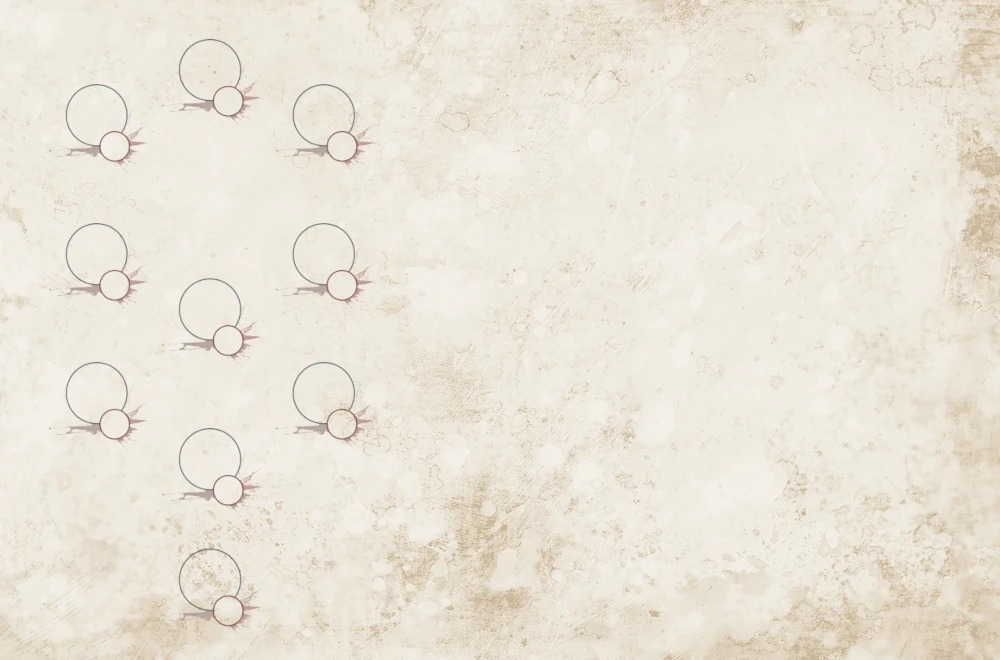
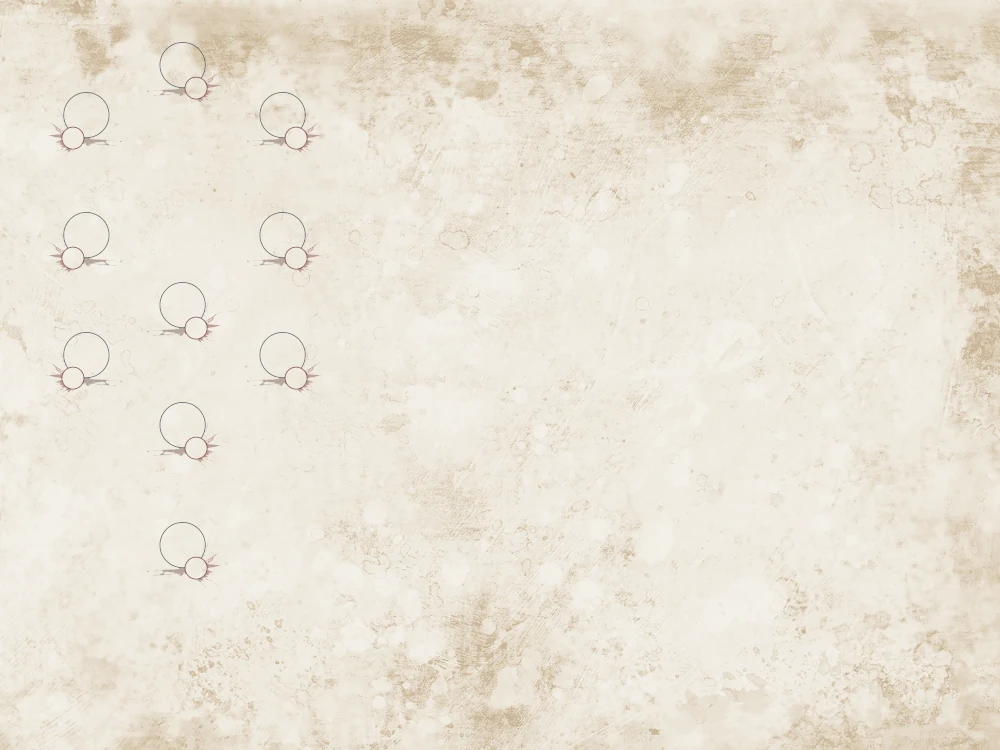
layout qualites

diff --git a/style/esprit.less b/style/esprit.less
@@ -57,118 +57,135 @@
 }
 
 .grid-tab-qualites {
-    display: grid;
-    grid-template-columns: 350px 300px 300px;
-    grid-template-rows: 1fr 1fr 1fr 1fr 1fr;
-    padding-left: 50px;
+  display: grid;
+  grid-template-columns: 350px 300px 300px;
+  grid-template-rows: 1fr 1fr 1fr 1fr 1fr;
+  padding-left: 30px;
 }
 .grid-arbre-qualites {
-    grid-row: 1 / 6;
-    grid-column: 1 / 2;
+  grid-row: 1 / 6;
+  grid-column: 1 / 2;
   display: grid;
-  margin-top:9px;
-  grid-template-columns: 120px 110px 120px;
-  grid-template-rows: 150px 150px 120px 120px 120px;}
-  .intellect-group{
-    position: relative;
-    z-index: 1;
-    margin-top: 48px;
-    grid-row: 1;
-    grid-column: 1 / 2;
+  margin-top: 9px;
+  grid-template-columns: 90px 100px 120px;
+  grid-template-rows: 120px 120px 120px 120px 120px;
+}
+.intellect-group {
+  position: relative;
+  z-index: 1;
+  margin-top: 48px;
+  grid-row: 1;
+  grid-column: 1 / 2;
+}
+.courage-group {
+  grid-row: 1;
+  grid-column: 2 / 3;
+}
+.sensibilite-group {
+  position: relative;
+  z-index: 1;
+  margin-top: 48px;
+  grid-row: 1;
+  grid-column: 3 / 4;
+}
+.autorite-group {
+  position: relative;
+  z-index: 1;
+  margin-top: 48px;
+  grid-row: 2;
+  grid-column: 1 / 2;
+}
+.ouverture-group {
+  position: relative;
+  z-index: 1;
+  margin-top: 48px;
+  grid-row: 2;
+  grid-column: 3 / 4;
+}
+.savoir-group {
+  position: relative;
+  z-index: 1;
+  margin-top: 48px;
+  grid-row: 3;
+  grid-column: 1 / 2;
+}
+.serenite-group {
+  grid-row: 3;
+  grid-column: 2 / 3;
+}
+.charisme-group {
+  position: relative;
+  z-index: 1;
+  margin-top: 48px;
+  grid-row: 3;
+  grid-column: 3 / 4;
+}
+.attention-group {
+  grid-row: 4;
+  grid-column: 2 / 3;
+}
+.coordination-group {
+  grid-row: 5;
+  grid-column: 2 / 3;
+}
+.qualite-group {
+  display: grid;
+  grid-template-columns: 1fr;
+  grid-template-rows: 40px 30px 30px 30px;
+  .qualite-name {
+    font-family: "arrusbt";
+    font-weight: bold;
+    font-size: 1em;
+    color: #497180;
+    text-transform: uppercase;
+    margin-top: 10px;
+    padding-left: 12px;
   }
-  .courage-group{
-    grid-row: 1;
-    grid-column: 2 / 3;
-  }
-  .sensibilite-group{
-    position: relative;
-    z-index: 1;
-    margin-top: 48px;
-    grid-row: 1;
-    grid-column: 3 / 4;
-  }
-  .autorite-group{
-    position: relative;
-    z-index: 1;
-    margin-top: 48px;
-    grid-row: 2;
-    grid-column: 1 / 2;
-  }
-  .ouverture-group{
-    position: relative;
-    z-index: 1;
-    margin-top: 48px;
-    grid-row: 2;
-    grid-column: 3 / 4;
-  }
-  .savoir-group{
-    position: relative;
-    z-index: 1;
-    margin-top: 48px;
-    grid-row: 3;
-    grid-column: 1 / 2;
-  }
-  .serenite-group{
-    grid-row: 3;
-    grid-column: 2 / 3;
-  }
-  .charisme-group{
-    position: relative;
-    z-index: 1;
-    margin-top: 48px;
-    grid-row: 3;
-    grid-column: 3 / 4;
-  }
-  .attention-group{
-    grid-row: 4;
-    grid-column: 2 / 3;
-  }
-  .coordination-group{
-    grid-row: 5;
-    grid-column: 2 / 3;
-  }
-  .qualite-group {
-    display: grid;
-    grid-template-columns: 1fr;
-    grid-template-rows: 40px 50px 30px 30px;
-    .qualite-name {
-      font-family: "arrusbt";
-      font-weight: bold;
-      font-size: 1em;
-      color: #497180;
-      text-transform: uppercase;
-      margin-top: 10px;
+  .qualite-value {
+    font-family: "arrusbt";
+    font-weight: bold;
+    font-size: 2em;
+    color: #497180;
+    text-transform: uppercase;
+    input {
+      text-align: center;
+      width: 1em;
     }
-    .qualite-value {
-      font-family: "arrusbt";
-      font-weight: bold;
-      font-size: 2em;
-      color: #497180;
-      text-transform: uppercase;
-      padding-left: 15px;
-      input {
-          text-align: center;
-          width: 2em;
-      }
+  }
+  .qvdroite{
+    padding-left: 48px;
+  }
+  .qvgauche{
+    padding-left: 42px;
+  }
+  .defaut-value {
+    font-family: "arrusbt";
+    font-weight: bold;
+    font-size: 1.2em;
+    color: #7b3135;
+    text-transform: uppercase;
+    input {
+      text-align: center;
+      width: 0.9em;
     }
-    .defaut-value {
-      font-family: "arrusbt";
-      font-weight: bold;
-      font-size: 1.5em;
-      color: #7b3135;
-      text-transform: uppercase;
-      padding-left: 42px;
-      input {                
-          text-align: center;
-          width: 1.5em;
-      }
-    }
-    .defaut-name {
-      font-family: "arrusbt";
-      font-weight: bold;
-      font-size: 1em;
-      color: #7b3135;
-      text-transform: uppercase;
-      padding-left: 10px;
-    }
+  }
+  .dvdroite{
+    padding-left: 66px;
+  }
+  .dvgauche{
+    padding-left: 33px;
+  }
+  .defaut-name {
+    font-family: "arrusbt";
+    font-weight: bold;
+    font-size: 0.7em;
+    color: #7b3135;
+    text-transform: uppercase;
+  }
+  .dndroite{
+    padding-left: 45px;
+  }
+  .dngauche{
+    padding-left: 0px;
+  }
 }

diff --git a/css/cabinet.css b/css/cabinet.css
@@ -146,15 +146,15 @@
   display: grid;
   grid-template-columns: 350px 300px 300px;
   grid-template-rows: 1fr 1fr 1fr 1fr 1fr;
-  padding-left: 50px;
+  padding-left: 30px;
 }
 .grid-arbre-qualites {
   grid-row: 1 / 6;
   grid-column: 1 / 2;
   display: grid;
   margin-top: 9px;
-  grid-template-columns: 120px 110px 120px;
-  grid-template-rows: 150px 150px 120px 120px 120px;
+  grid-template-columns: 90px 100px 120px;
+  grid-template-rows: 120px 120px 120px 120px 120px;
 }
 .intellect-group {
   position: relative;
@@ -217,7 +217,7 @@
 .qualite-group {
   display: grid;
   grid-template-columns: 1fr;
-  grid-template-rows: 40px 50px 30px 30px;
+  grid-template-rows: 40px 30px 30px 30px;
 }
 .qualite-group .qualite-name {
   font-family: "arrusbt";
@@ -226,6 +226,7 @@
   color: #497180;
   text-transform: uppercase;
   margin-top: 10px;
+  padding-left: 12px;
 }
 .qualite-group .qualite-value {
   font-family: "arrusbt";
@@ -233,29 +234,44 @@
   font-size: 2em;
   color: #497180;
   text-transform: uppercase;
-  padding-left: 15px;
 }
 .qualite-group .qualite-value input {
   text-align: center;
-  width: 2em;
+  width: 1em;
+}
+.qualite-group .qvdroite {
+  padding-left: 48px;
+}
+.qualite-group .qvgauche {
+  padding-left: 42px;
 }
 .qualite-group .defaut-value {
   font-family: "arrusbt";
   font-weight: bold;
-  font-size: 1.5em;
+  font-size: 1.2em;
   color: #7b3135;
   text-transform: uppercase;
-  padding-left: 42px;
 }
 .qualite-group .defaut-value input {
   text-align: center;
-  width: 1.5em;
+  width: 0.9em;
+}
+.qualite-group .dvdroite {
+  padding-left: 66px;
+}
+.qualite-group .dvgauche {
+  padding-left: 33px;
 }
 .qualite-group .defaut-name {
   font-family: "arrusbt";
   font-weight: bold;
-  font-size: 1em;
+  font-size: 0.7em;
   color: #7b3135;
   text-transform: uppercase;
-  padding-left: 10px;
+}
+.qualite-group .dndroite {
+  padding-left: 45px;
+}
+.qualite-group .dngauche {
+  padding-left: 0px;
 }
